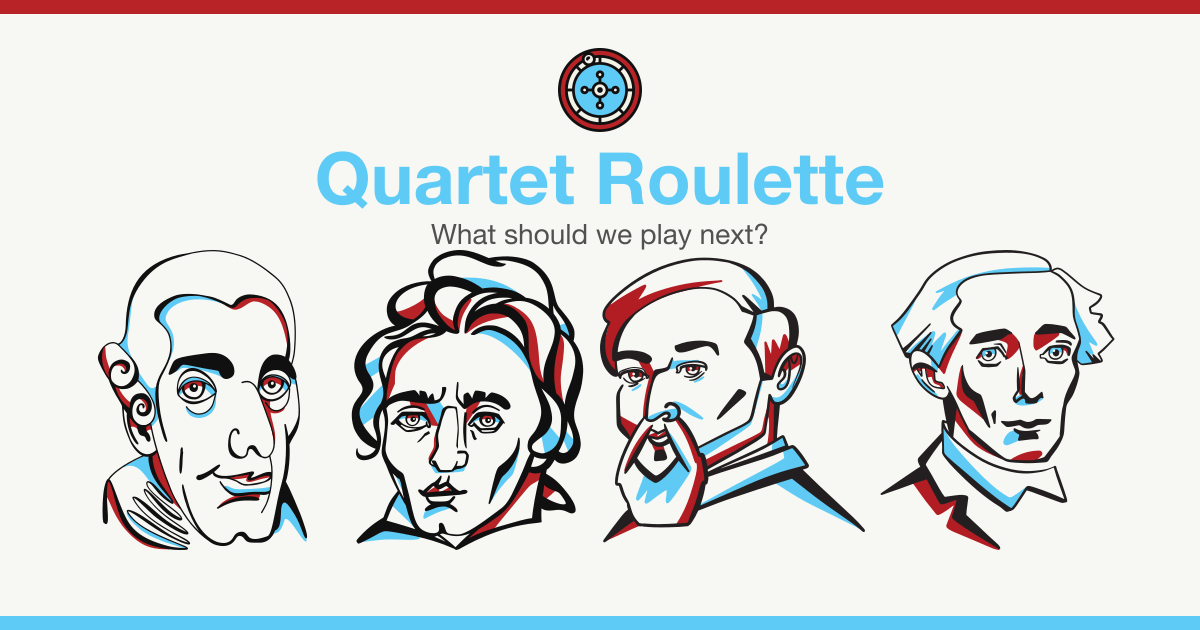
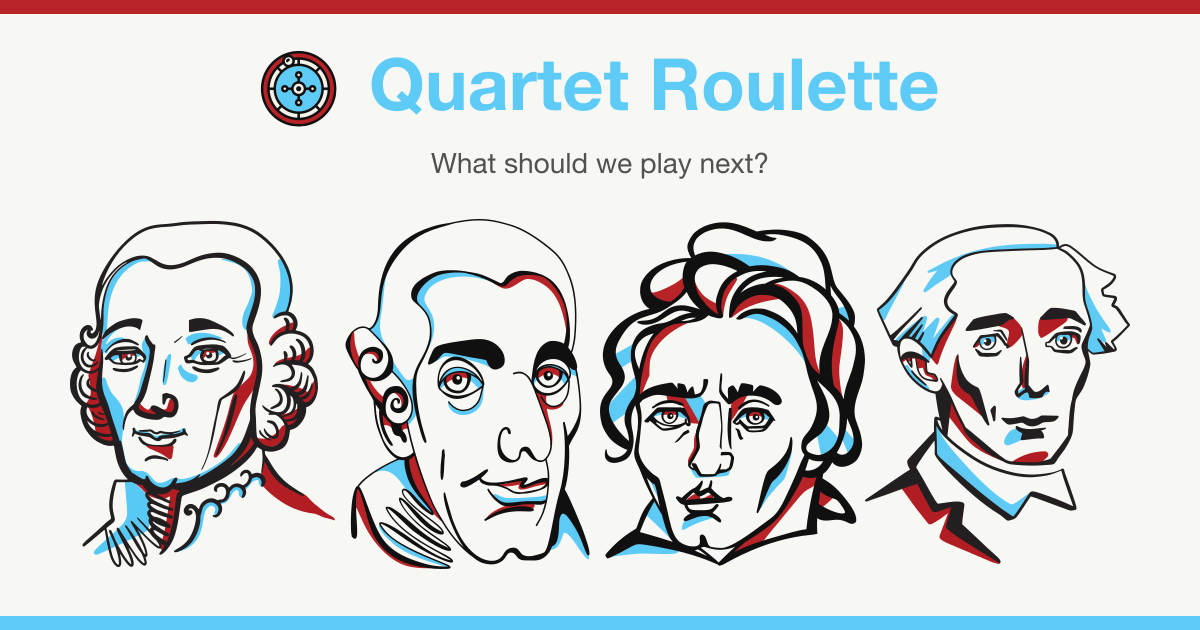
A playground for the site-wide share card, and a shorter header (#39)
Issue #39 asks whether the four hard-coded portraits, the invented tagline
and the density of static/og/og.png are the right calls. None of that is
answerable by reading make-og.mjs; it needs a person looking at variants.

So: `npm run og-tool` writes og-tool.html, which rebuilds site_card()'s
layout in the browser over the live static/ drawings. Pick and reorder the
portraits, mirror any of them, try taglines, tune the spacing, and read a
config block off the bottom that drops straight into site_card(). Gitignored
like svg-diff.html and pwa-checklist.html -- the script is the artifact, the
HTML goes stale the moment the drawings or the layout move.

Jason's pick, made in the tool: Boccherini, Haydn, Beethoven, Bartok, with
the tagline unchanged. Boccherini and Haydn were writing quartets before the
form settled, so the row now runs from its origins into the twentieth
century instead of opening on the two most predictable names.

The layout is a line shorter. The icon and wordmark now share a row, which
the old code could not do: centering an icon+text row needs the rendered
text width, rsvg cannot report it and librsvg 2.62 ignores textLength. So
TITLE_EMS carries it -- the advance width of "Quartet Roulette", recovered
by rendering the string anchored at each end and solving the two ink boxes
for the side bearings. The shipped card centers to within a pixel of the
predicted 678px. It is a constant resolved against an installed font, which
[…]

diff --git a/CLAUDE.md b/CLAUDE.md
@@ -27,6 +27,12 @@ modules + `data.json`) for Node, React renders every route in `src/lib/routes.js
 - **`npm run svg-diff`** writes `svg-diff.html`: every drawing as authored, as shipped, and the two
   stacked with a difference blend, with size and glow sliders. This is how you check that a change to
   the SVG pipeline did not alter the artwork — black means identical. See "The portrait SVGs" below.
+- **`npm run og-tool`** writes `og-tool.html`, the design playground for the site-wide share card
+  (issue #39): pick, reorder and mirror portraits, try taglines, tune spacing, and paste the
+  resulting config block back to lock a variant into `site_card()` in `scripts/make-og.mjs`. It
+  duplicates that function's layout numbers deliberately — **keep the two in sync** — reads
+  `static/` live from the repo root, and is gitignored like `svg-diff.html`; the script is the
+  committed artifact.
 - The optimized drawings are cached in `.cache/svg/`, keyed on each drawing's bytes plus
   `scripts/build.mjs` itself, so editing the build invalidates them automatically and each build
   prunes what it did not use. A cold build is ~4.6s and a warm one ~0.8s; deleting `.cache/` only
